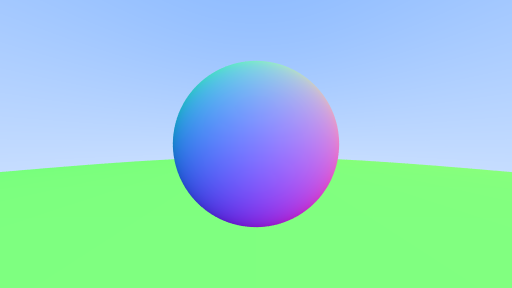
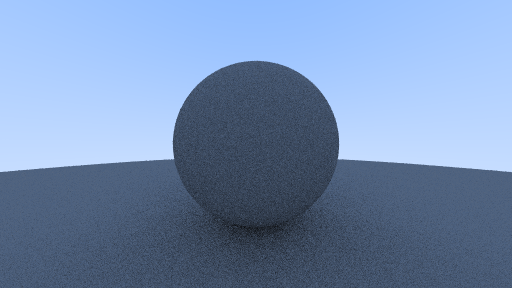
Diffuse surface

diff --git a/src/camera.hpp b/src/camera.hpp
@@ -11,8 +11,8 @@ namespace art {
 	class Camera {
 	public:
 
-		Camera() : m_pos(glm::vec3(0.0)), m_nSamples(10) {}
-		Camera(glm::vec3 Pos, uint32_t nSamples) : m_pos(Pos), m_nSamples(nSamples) {}
+		Camera() : m_pos(glm::vec3(0.0)), m_nSamples(10), m_maxDepth(10) {}
+		Camera(glm::vec3 Pos, uint32_t nSamples, uint32_t maxDepth) : m_pos(Pos), m_nSamples(nSamples), m_maxDepth(maxDepth) {}
 
 		void Render(Image &image, const Hittable &scene) {
 			// camera
@@ -40,7 +40,7 @@ namespace art {
 					glm::vec3 pixelColor(0);
 					for (int sample = 0; sample < m_nSamples; sample++) {
 						art::Ray r = GetRay(i, j);
-						pixelColor += RayColor(r, scene);
+						pixelColor += RayColor(r, m_maxDepth, scene);
 					}
 					image.SetPixelColor(i, j, pixelColor * pixel_scale);
 				}
@@ -48,10 +48,15 @@ namespace art {
 		}
 
 	private:
-		glm::vec3 RayColor(const art::Ray &r, const art::Hittable &scene) const {
+		glm::vec3 RayColor(const art::Ray &r, int currDepth, const art::Hittable &scene) const {
+			if (currDepth <= 0) {
+				return glm::vec3(0);
+			}
+
 			art::HitInfo info;
-			if (scene.Hit(r, art::Interval(0, art::infinity), info)) {
-				return 0.5f * (info.N + 1.0f);
+			if (scene.Hit(r, art::Interval(0.001, art::infinity), info)) {
+				glm::vec3 dir = RandomOnHemisphere(info.N);
+				return 0.5f * RayColor(Ray(info.p, dir), currDepth - 1, scene);
 			}
 
 			glm::vec3 dir = glm::normalize(r.GetDirection());
@@ -69,8 +74,10 @@ namespace art {
 		}
 
 	private:
-		glm::vec3 m_pos;
 		uint32_t  m_nSamples;
+		uint32_t  m_maxDepth;
+		glm::vec3 m_pos;
+		
 		glm::vec3 m_pixel00Pos;
 		glm::vec3 m_pixelDeltaU;
 		glm::vec3 m_pixelDeltaV;

diff --git a/src/utils.hpp b/src/utils.hpp
@@ -14,4 +14,17 @@ namespace art {
 		// Returns the vector to a random point in the [-.5,-.5]-[+.5,+.5] unit square.
 		return glm::vec2(art::Random() - 0.5, art::Random() - 0.5);
 	}
+
+	inline glm::vec3 RandomVec() {
+		return glm::normalize(glm::vec3(Random() - 0.5, Random() - 0.5, Random() - 0.5));
+	}
+
+	inline glm::vec3 RandomOnHemisphere(const glm::vec3 &N) {
+		glm::vec3 v = RandomVec();
+		if (glm::dot(v, N) > 0.0) {
+			return v;
+		} else {
+			return -v;
+		}
+	}
 }

diff --git a/src/main.cpp b/src/main.cpp
@@ -13,7 +13,7 @@
 int main() {
     art::Image image(512, 288);
     art::Scene scene;
-    art::Camera camera(glm::vec3(0), 20);
+    art::Camera camera(glm::vec3(0), 20, 10);
 
     camera.Render(image, scene);
     
